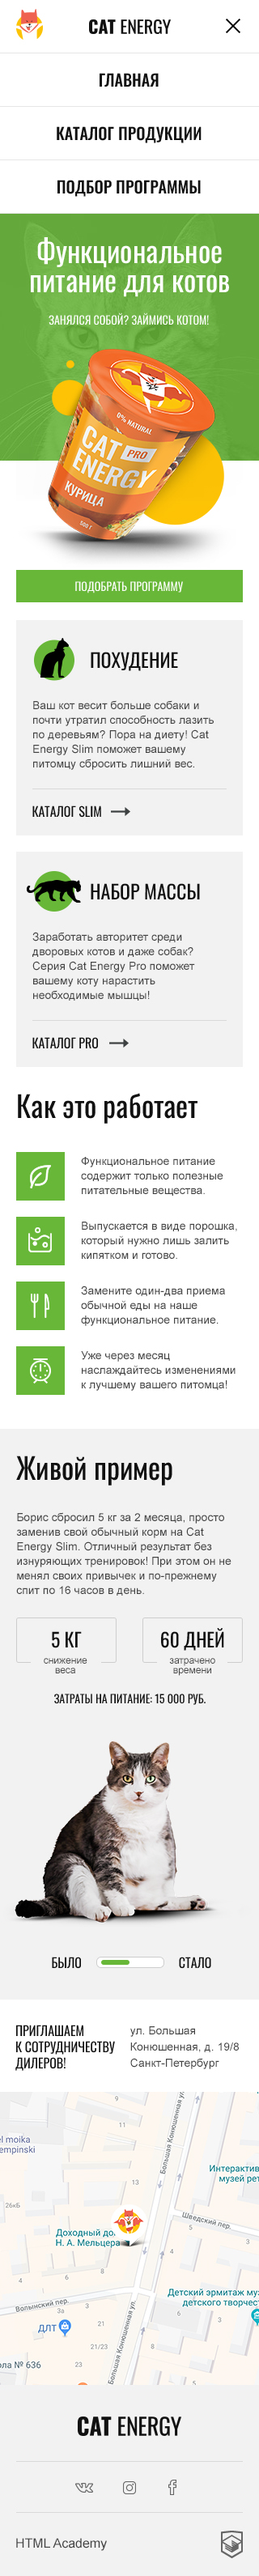
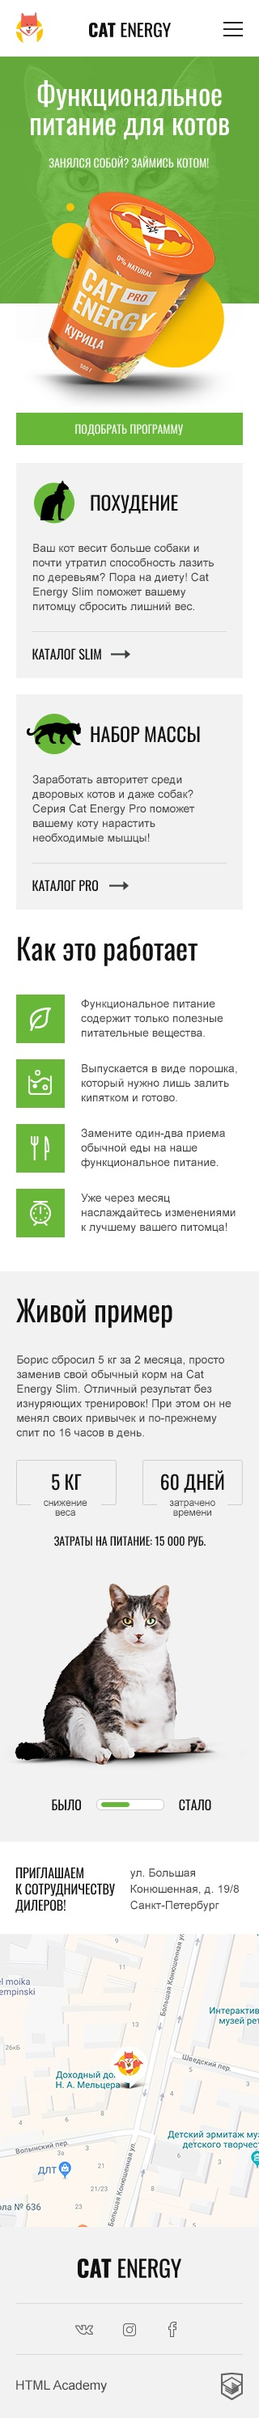
corrected button size and font

diff --git a/dist/css/style.min.css b/dist/css/style.min.css
@@ -1,1 +1,1 @@
-/*! normalize.css v8.0.1 | MIT License | github.com/necolas/normalize.css */html{line-height:1.15;-webkit-text-size-adjust:100%}main{display:block}h1{font-size:2em;margin:.67em 0}hr{box-sizing:content-box;height:0;overflow:visible}pre{font-family:monospace,monospace;font-size:1em}a{background-color:transparent}abbr[title]{border-bottom:none;text-decoration:underline;-webkit-text-decoration:underline dotted;text-decoration:underline dotted}b,strong{font-weight:bolder}code,kbd,samp{font-family:monospace,monospace;font-size:1em}small{font-size:80%}sub,sup{font-size:75%;line-height:0;position:relative;vertical-align:baseline}sub{bottom:-.25em}sup{top:-.5em}img{border-style:none}button,input,optgroup,select,textarea{font-family:inherit;font-size:100%;line-height:1.15;margin:0}button,input{overflow:visible}button,select{text-transform:none}[type=button],[type=reset],[type=submit],button{-webkit-appearance:button}[type=button]::-moz-focus-inner,[type=reset]::-moz-focus-inner,[type=submit]::-moz-focus-inner,button::-moz-focus-inner{border-style:none;padding:0}[type=button]:-moz-focusring,[type=reset]:-moz-focusring,[type=submit]:-moz-focusring,button:-moz-focusring{outline:1px dotted ButtonText}fieldset{padding:.35em .75em .625em}legend{box-sizing:border-box;color:inherit;display:table;max-width:100%;padding:0;white-space:normal}progress{vertical-align:baseline}textarea{overflow:auto}[type=checkbox],[type=radio]{box-sizing:border-box;padding:0}[type=number]::-webkit-inner-spin-button,[type=number]::-webkit-outer-spin-button{height:auto}[type=search]{-webkit-appearance:textfield;outline-offset:-2px}[type=search]::-webkit-search-decoration{-webkit-appearance:none}::-webkit-file-upload-button{-webkit-appearance:button;font:inherit}details{display:block}summary{display:list-item}[hidden],template{display:none}.sprite{display:inline-block;fill:currentColor}.sprite__HTMLAcademy_logo_footer{width:26.9px;height:34.1px}.sprite__hamburger_close{width:18px;height:18px}.sprite__hamburger_open{width:24px;height:18px}.sprite__icon_arrow_right{width:24.2px;height:11px}.sprite__icon_facebook{width:13.5px;height:27.8px}.sprite__icon_facebook_mobile{width:10px;height:19px}.sprite__icon_instagram{width:23px;height:23px}.sprite__icon_instagram_mobile{width:16px;height:16px}.sprite__icon_vk{width:30px;height:15.8px}.sprite__icon_vk_mobile{width:22px;height:12px}@font-face{font-family:Oswald-Regular;font-style:normal;font-weight:400;font-display:swap;src:url(/fonts/Oswald-Regular.woff) format("woff2"),url(/fonts/Oswald-Regular.woff) format("woff")}html{box-sizing:border-box;scroll-behavior:smooth;font-size:100%}*,:after,:before{box-sizing:inherit}body{min-width:320px;padding:0;margin:0;font-family:Oswald-Regular,Arial,sans-serif;font-size:1.125rem;font-style:normal;font-weight:400;line-height:1.2em;color:#000;background-color:#fff}img{max-width:100%;height:auto}a{color:#000;text-decoration:none}.visually-hidden-not-focusable,.visually-hidden:not(:focus):not(:active){position:absolute;width:1px;height:1px;padding:0;margin:-1px;overflow:hidden;clip:rect(0 0 0 0);-webkit-clip-path:inset(100%);clip-path:inset(100%);white-space:nowrap;border:0}.button{display:block;padding:.8em 1em;margin:0 20px;font-size:1.2rem;line-height:1em;color:#fff;text-align:center;text-transform:uppercase;background-color:#68b738}.button:focus,.button:hover{background-color:#5eaa2f}.button:active{color:hsla(0,0%,100%,.5)}.page-main__wrapper{display:grid;grid-template-columns:1fr clamp(320px,90%,530px) 1fr}.page-main__wrapper>*{grid-column:2}.page-header{position:-webkit-sticky;position:sticky;top:0;z-index:3;background-color:#fff;border-bottom:1px solid #e6e6e6}.page-header__wrapper{position:relative;display:flex;flex-direction:row;flex-wrap:wrap;align-items:center;justify-content:space-around;min-height:66px;padding:0 20px}.page-header__logo-link:focus,.page-header__logo-link:hover{opacity:.85}.page-header__logo-link:active{opacity:.5}.main-nav__list{padding:0;margin:0;list-style:none;font-weight:700;text-transform:uppercase}.main-nav__item:focus,.main-nav__item:hover{opacity:.6}.main-nav__item:active{opacity:.35}.main-nav__item--current-page{position:relative;cursor:default}.main-nav__item--current-page:active,.main-nav__item--current-page:focus,.main-nav__item--current-page:hover{opacity:1}.main-nav__item--current-page .main-nav__link{opacity:.6}.main-nav__link{display:flex;align-items:center;justify-content:center;width:100%;min-height:67px}.main-info{color:#fff}.main-info__wrapper{position:relative}.main-info__text-container{min-height:305px;background-color:#63a73a;background-image:url(../img/background_img/index_background_mobile.jpg);background-repeat:no-repeat;background-position:center 0;background-size:320px 305px}.main-info__title{padding:28px 10% 0;font-size:2.25rem;font-weight:inherit}.main-info__title,.main-info__title-text{margin:0;line-height:1em;text-align:center}.main-info__title-text{padding:20px 30px 0;font-size:1.0625rem;text-transform:uppercase}.main-info__image-link{position:absolute;top:300px;left:50%;transform:translate(-50%,-50%)}.main-info__image,.main-info__image-link{width:280px;height:270px}.main-info__button{margin-top:135px}@media (min-width:768px){.page-main__wrapper{grid-template-columns:1fr clamp(708px,80%,1000px) 1fr}.page-main__main-info{margin-bottom:470px}.page-header__wrapper{padding:20px 2.5%}.page-header__logo{width:173px;height:58px}.page-header__logo-link{padding-left:1.5%;margin-right:12.5%}.page-header__logo-link-mobile-only,.page-header__logo-mobile-only,.page-header__nav-toggle{display:none}.page-header__main-nav{flex:7 1 auto;max-width:500px}.main-nav__list{display:flex;padding-right:2%;flex-wrap:wrap;justify-content:space-between;font-weight:400;line-height:1.4em}.main-nav__item{flex:1 1 170px}.main-nav__item--index-page{max-width:70px}.main-nav__item--catalog-page,.main-nav__item--form-page{max-width:160px}.main-nav__item--current-page .main-nav__link{opacity:1}.main-nav__item--current-page .main-nav__link:after{position:absolute;bottom:11px;width:97%;height:2px;content:"";background-color:#68b738}.main-info{color:#000}.main-info__text-container{min-height:0;background-color:transparent;background-image:none}.main-info__title{padding:30px 0 0;font-size:3.75rem;text-align:left}.main-info__title-text{padding:44px 0 0;font-size:1.3rem;text-align:left}.main-info__image-link{top:545px;z-index:-1}.main-info__image,.main-info__image-link{width:709px;height:609px}.main-info__button{max-width:242px;margin:48px 0 0;font-size:1.25rem}}@media (min-width:1440px){.page-main__wrapper{grid-template-columns:1fr 1200px 1fr}.page-header{position:relative;background-color:transparent;border:none}.page-header__wrapper{max-width:1440px;padding:50px 40px;margin:0 auto}.page-header__logo{width:202px;height:59px}.page-header__logo-link{margin-right:540px;margin-left:50px}.page-header__main-nav{max-width:none}.main-nav__wrapper{padding-right:70px}.main-nav__list{max-width:500px;padding-right:0;font-size:1.25rem}.main-nav__item{flex:0 0 auto}.main-nav__item--catalog-page,.main-nav__item--form-page,.main-nav__item--index-page{max-width:none}.main-nav__item--current-page .main-nav__link:after{bottom:9px;width:100%;height:2px;content:"";background-color:#fff}.main-nav__link{color:#fff}.main-info__wrapper{background-color:none;background-image:none}.main-info__wrapper:after{position:absolute;top:-168px;right:-119px;z-index:-2;width:720px;height:696px;content:"";background-color:#68b738;background-image:url(../img/background_img/index_background_desktop.jpg)}.main-info__text-container{max-width:560px;padding-top:25px;padding-left:70px}.main-info__image-link{top:220px;left:720px;z-index:-1}.main-info__image,.main-info__image-link{width:552px;height:499px}.main-info__button{margin-left:70px}}@media (max-width:767px){.page-header{cursor:pointer}.page-header__logo-mobile-only:focus,.page-header__logo-mobile-only:hover{opacity:.85}.page-header__logo-mobile-only:active{opacity:.5}.page-header__nav-toggle{cursor:pointer;background-color:transparent;border:none}.page-header__nav-toggle:focus,.page-header__nav-toggle:hover{opacity:.75}.page-header__nav-toggle:active{opacity:.5}.page-header__nav-toggle .page-header__hamburger{color:#000}.main-nav{position:absolute;top:66px;right:0;background-color:#fff}.main-nav--closed{position:absolute;width:1px;height:1px;padding:0;margin:-1px;overflow:hidden;clip:rect(0 0 0 0);-webkit-clip-path:inset(100%);clip-path:inset(100%);white-space:nowrap;border:0}.main-nav--opened{font-size:1.25rem}.main-nav--no-js{position:static;width:auto;height:auto;margin:0}.main-nav--no-js .main-nav__wrapper{width:90vw}.main-nav__wrapper{width:320px;min-height:200px}.main-nav__item{border:1px solid #e6e6e6}}
+/*! normalize.css v8.0.1 | MIT License | github.com/necolas/normalize.css */html{line-height:1.15;-webkit-text-size-adjust:100%}main{display:block}h1{font-size:2em;margin:.67em 0}hr{box-sizing:content-box;height:0;overflow:visible}pre{font-family:monospace,monospace;font-size:1em}a{background-color:transparent}abbr[title]{border-bottom:none;text-decoration:underline;-webkit-text-decoration:underline dotted;text-decoration:underline dotted}b,strong{font-weight:bolder}code,kbd,samp{font-family:monospace,monospace;font-size:1em}small{font-size:80%}sub,sup{font-size:75%;line-height:0;position:relative;vertical-align:baseline}sub{bottom:-.25em}sup{top:-.5em}img{border-style:none}button,input,optgroup,select,textarea{font-family:inherit;font-size:100%;line-height:1.15;margin:0}button,input{overflow:visible}button,select{text-transform:none}[type=button],[type=reset],[type=submit],button{-webkit-appearance:button}[type=button]::-moz-focus-inner,[type=reset]::-moz-focus-inner,[type=submit]::-moz-focus-inner,button::-moz-focus-inner{border-style:none;padding:0}[type=button]:-moz-focusring,[type=reset]:-moz-focusring,[type=submit]:-moz-focusring,button:-moz-focusring{outline:1px dotted ButtonText}fieldset{padding:.35em .75em .625em}legend{box-sizing:border-box;color:inherit;display:table;max-width:100%;padding:0;white-space:normal}progress{vertical-align:baseline}textarea{overflow:auto}[type=checkbox],[type=radio]{box-sizing:border-box;padding:0}[type=number]::-webkit-inner-spin-button,[type=number]::-webkit-outer-spin-button{height:auto}[type=search]{-webkit-appearance:textfield;outline-offset:-2px}[type=search]::-webkit-search-decoration{-webkit-appearance:none}::-webkit-file-upload-button{-webkit-appearance:button;font:inherit}details{display:block}summary{display:list-item}[hidden],template{display:none}.sprite{display:inline-block;fill:currentColor}.sprite__HTMLAcademy_logo_footer{width:26.9px;height:34.1px}.sprite__hamburger_close{width:18px;height:18px}.sprite__hamburger_open{width:24px;height:18px}.sprite__icon_arrow_right{width:24.2px;height:11px}.sprite__icon_facebook{width:13.5px;height:27.8px}.sprite__icon_facebook_mobile{width:10px;height:19px}.sprite__icon_instagram{width:23px;height:23px}.sprite__icon_instagram_mobile{width:16px;height:16px}.sprite__icon_vk{width:30px;height:15.8px}.sprite__icon_vk_mobile{width:22px;height:12px}@font-face{font-family:Oswald-Regular;font-style:normal;font-weight:400;font-display:swap;src:url(/fonts/Oswald-Regular.woff) format("woff2"),url(/fonts/Oswald-Regular.woff) format("woff")}html{box-sizing:border-box;scroll-behavior:smooth;font-size:100%}*,:after,:before{box-sizing:inherit}body{min-width:320px;padding:0;margin:0;font-family:Oswald-Regular,Arial,sans-serif;font-size:1.125rem;font-style:normal;font-weight:400;line-height:1.2em;color:#000;background-color:#fff}img{max-width:100%;height:auto}a{color:#000;text-decoration:none}.visually-hidden-not-focusable,.visually-hidden:not(:focus):not(:active){position:absolute;width:1px;height:1px;padding:0;margin:-1px;overflow:hidden;clip:rect(0 0 0 0);-webkit-clip-path:inset(100%);clip-path:inset(100%);white-space:nowrap;border:0}.button{display:block;padding:.8em 1em;margin:0 20px;font-size:1.2rem;line-height:1em;color:#fff;text-align:center;text-transform:uppercase;background-color:#68b738;transition:all .05s linear 0s}.button:focus,.button:hover{background-color:#5eaa2f}.button:active{color:hsla(0,0%,100%,.5)}.page-main__wrapper{display:grid;grid-template-columns:1fr clamp(320px,90%,530px) 1fr}.page-main__wrapper>*{grid-column:2}.page-header{position:-webkit-sticky;position:sticky;top:0;z-index:3;background-color:#fff;border-bottom:1px solid #e6e6e6}.page-header__wrapper{position:relative;display:flex;flex-direction:row;flex-wrap:wrap;align-items:center;justify-content:space-around;min-height:66px;padding:0 20px}.page-header__logo-link:focus,.page-header__logo-link:hover{opacity:.85}.page-header__logo-link:active{opacity:.5}.main-nav__list{padding:0;margin:0;list-style:none;font-weight:700;text-transform:uppercase}.main-nav__item:focus,.main-nav__item:hover{opacity:.6}.main-nav__item:active{opacity:.35}.main-nav__item--current-page{position:relative;cursor:default}.main-nav__item--current-page:active,.main-nav__item--current-page:focus,.main-nav__item--current-page:hover{opacity:1}.main-nav__item--current-page .main-nav__link{opacity:.6}.main-nav__link{display:flex;align-items:center;justify-content:center;width:100%;min-height:67px}.main-info{color:#fff}.main-info__wrapper{position:relative}.main-info__text-container{min-height:305px;background-color:#63a73a;background-image:url(../img/background_img/index_background_mobile.jpg);background-repeat:no-repeat;background-position:center 0;background-size:320px 305px}.main-info__title{padding:28px 10% 0;font-size:2.25rem;font-weight:inherit}.main-info__title,.main-info__title-text{margin:0;line-height:1em;text-align:center}.main-info__title-text{padding:23px 30px 0;font-size:.875rem;color:hsla(0,0%,100%,.8);text-transform:uppercase}.main-info__image-link{position:absolute;top:300px;left:50%;transform:translate(-50%,-50%)}.main-info__image,.main-info__image-link{width:280px;height:270px}.main-info__button{padding:.9em 1em;margin-top:135px;font-size:.875rem;color:hsla(0,0%,100%,.9)}@media (min-width:768px){.page-main__wrapper{grid-template-columns:1fr clamp(708px,80%,1000px) 1fr}.page-main__main-info{margin-bottom:470px}.page-header__wrapper{padding:20px 2.5%}.page-header__logo{width:173px;height:58px}.page-header__logo-link{padding-left:1.5%;margin-right:12.5%}.page-header__logo-link-mobile-only,.page-header__logo-mobile-only,.page-header__nav-toggle{display:none}.page-header__main-nav{flex:7 1 auto;max-width:500px}.main-nav__list{display:flex;padding-right:2%;flex-wrap:wrap;justify-content:space-between;font-weight:400;line-height:1.4em}.main-nav__item{flex:1 1 170px}.main-nav__item--index-page{max-width:70px}.main-nav__item--catalog-page,.main-nav__item--form-page{max-width:160px}.main-nav__item--current-page .main-nav__link{opacity:1}.main-nav__item--current-page .main-nav__link:after{position:absolute;bottom:11px;width:97%;height:2px;content:"";background-color:#68b738}.main-info{color:#000}.main-info__text-container{min-height:0;background-color:transparent;background-image:none}.main-info__title{padding:30px 0 0;font-size:3.75rem;text-align:left}.main-info__title-text{padding:44px 0 0;font-size:1.3rem;text-align:left}.main-info__image-link{top:545px;z-index:-1}.main-info__image,.main-info__image-link{width:709px;height:609px}.main-info__button{max-width:242px;padding:.8em 1em;margin:48px 0 0;font-size:1.25rem;color:#fff}}@media (min-width:1440px){.page-main__wrapper{grid-template-columns:1fr 1200px 1fr}.page-header{position:relative;background-color:transparent;border:none}.page-header__wrapper{max-width:1440px;padding:50px 40px;margin:0 auto}.page-header__logo{width:202px;height:59px}.page-header__logo-link{margin-right:540px;margin-left:50px}.page-header__main-nav{max-width:none}.main-nav__wrapper{padding-right:70px}.main-nav__list{max-width:500px;padding-right:0;font-size:1.25rem}.main-nav__item{flex:0 0 auto}.main-nav__item--catalog-page,.main-nav__item--form-page,.main-nav__item--index-page{max-width:none}.main-nav__item--current-page .main-nav__link:after{bottom:9px;width:100%;height:2px;content:"";background-color:#fff}.main-nav__link{color:#fff}.main-info__wrapper{background-color:none;background-image:none}.main-info__wrapper:after{position:absolute;top:-168px;right:-119px;z-index:-2;width:720px;height:696px;content:"";background-color:#68b738;background-image:url(../img/background_img/index_background_desktop.jpg)}.main-info__text-container{max-width:560px;padding-top:25px;padding-left:70px}.main-info__image-link{top:220px;left:720px;z-index:-1}.main-info__image,.main-info__image-link{width:552px;height:499px}.main-info__button{margin-left:70px}}@media (max-width:767px){.page-header{cursor:pointer}.page-header__logo-mobile-only:focus,.page-header__logo-mobile-only:hover{opacity:.85}.page-header__logo-mobile-only:active{opacity:.5}.page-header__nav-toggle{cursor:pointer;background-color:transparent;border:none}.page-header__nav-toggle:focus,.page-header__nav-toggle:hover{opacity:.75}.page-header__nav-toggle:active{opacity:.5}.page-header__nav-toggle .page-header__hamburger{color:#000}.main-nav{position:absolute;top:66px;right:0;background-color:#fff}.main-nav--closed{position:absolute;width:1px;height:1px;padding:0;margin:-1px;overflow:hidden;clip:rect(0 0 0 0);-webkit-clip-path:inset(100%);clip-path:inset(100%);white-space:nowrap;border:0}.main-nav--opened{font-size:1.25rem}.main-nav--no-js{position:static;width:auto;height:auto;margin:0}.main-nav--no-js .main-nav__wrapper{width:90vw}.main-nav__wrapper{width:320px;min-height:200px}.main-nav__item{border:1px solid #e6e6e6}}

diff --git a/src/sass/blocks/_main-info.scss b/src/sass/blocks/_main-info.scss
@@ -31,11 +31,12 @@
 
 .main-info__title-text {
   padding: 0 30px;
-  padding-top: 20px;
+  padding-top: 23px;
   margin: 0;
 
-  font-size: 1.0625rem;
+  font-size: 0.875rem;
   line-height: 1em;
+  color: rgba(255, 255, 255, 0.8);
   text-align: center;
   text-transform: uppercase;
 }
@@ -57,7 +58,11 @@
 }
 
 .main-info__button {
+  padding: 0.9em 1em;
   margin-top: 135px;
+
+  font-size: 0.875rem;
+  color: rgba(255, 255, 255, 0.9);
 }
 
 @media (min-width: vars.$tablet-width) {
@@ -102,10 +107,12 @@
 
   .main-info__button {
     max-width: 242px;
+    padding: 0.8em 1em;
     margin: 0;
     margin-top: 48px;
 
     font-size: 1.25rem;
+    color: #fff;
   }
 }
 

diff --git a/src/sass/blocks/_button.scss b/src/sass/blocks/_button.scss
@@ -14,6 +14,8 @@
 
   background-color: vars.$basic-green;
 
+  transition: all 0.05s linear 0s;
+
   &:focus,
   &:hover {
     background-color: vars.$dark-green;
